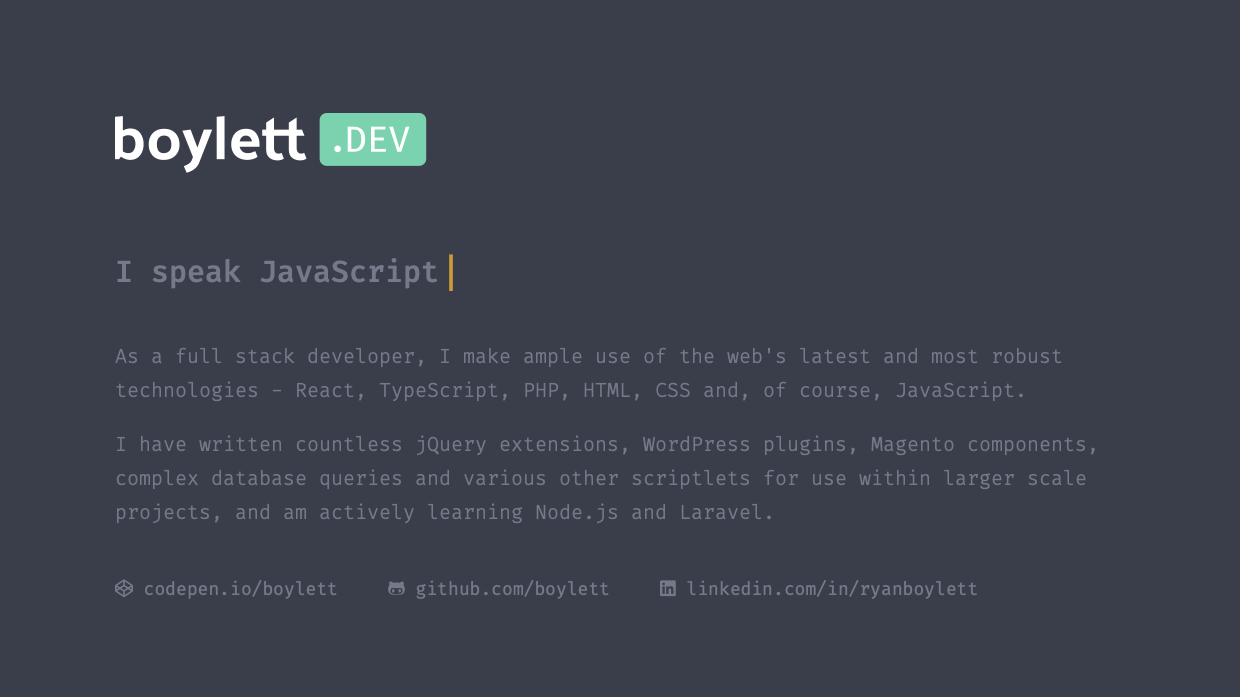
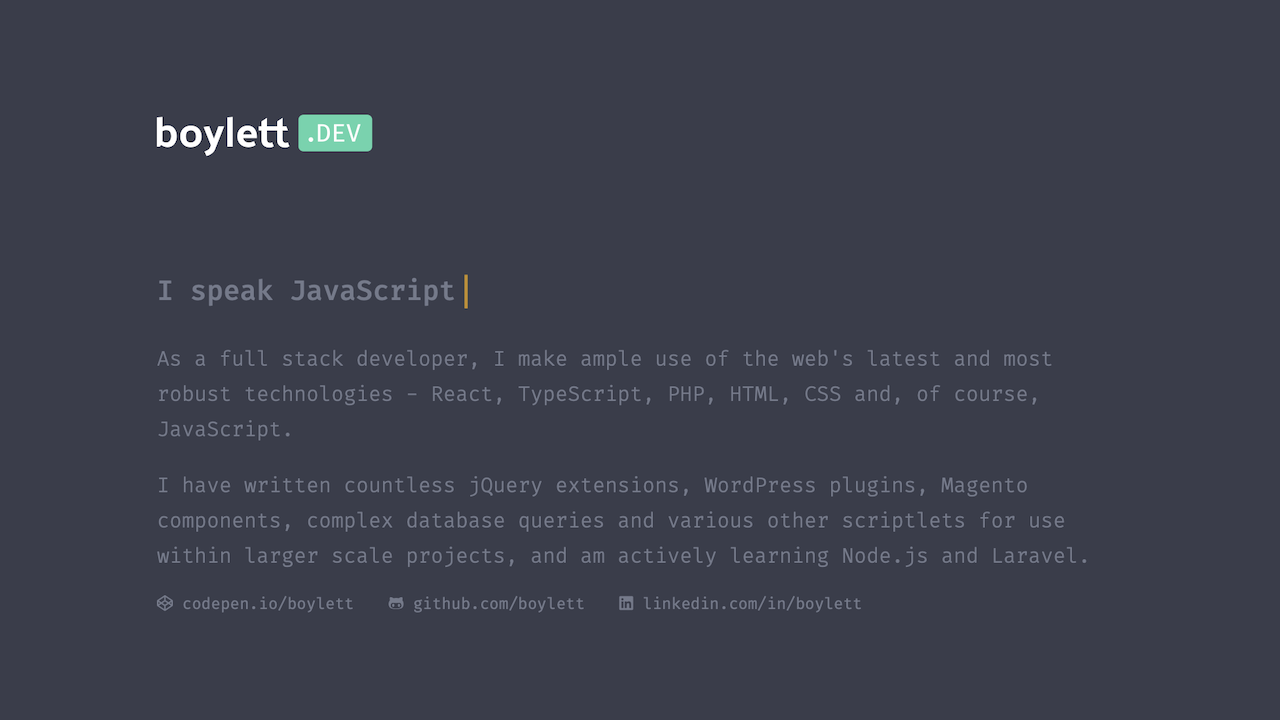
updated LinkedIn URL

diff --git a/src/App.js b/src/App.js
@@ -46,9 +46,9 @@ function App() {
           text: 'github.com/boylett'
         },
         {
-          href: 'https://linkedin.com/in/ryanboylett',
+          href: 'https://linkedin.com/in/boylett',
           icon: 'fab fa-linkedin',
-          text: 'linkedin.com/in/ryanboylett'
+          text: 'linkedin.com/in/boylett'
         },
       ],
     },
